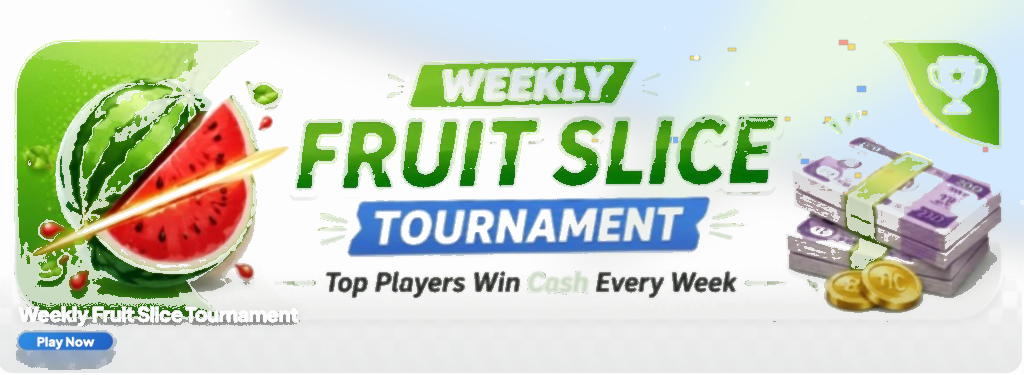
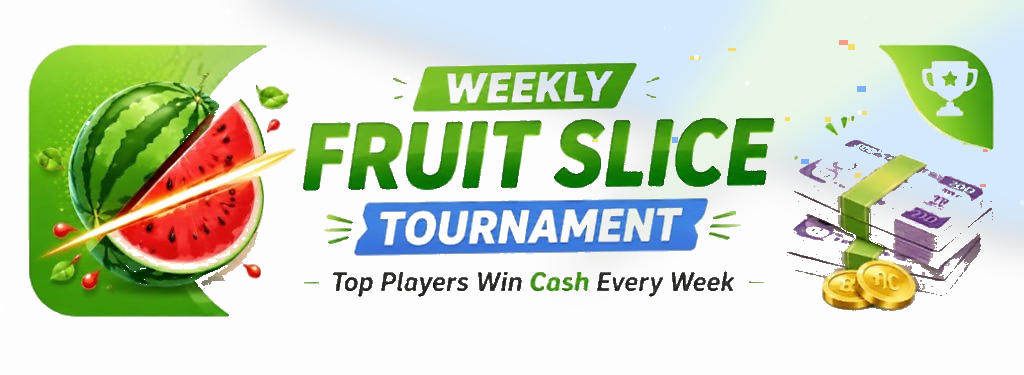
feat: update UI - order and coming soon

diff --git a/src/hub/main.ts b/src/hub/main.ts
@@ -65,10 +65,16 @@ function promosFromConfig(): PromoSlide[] {
 let promoIdx = 0;
 const PROMO_INTERVAL_MS = 4500;
 
+function promoBannerSrcset(img: string): string {
+  if (!img.includes('ad-banner-2.png')) return '';
+  const hi = img.replace('ad-banner-2.png', '[email redacted]');
+  return ` srcset="${escapeHtml(img)} 1x, ${escapeHtml(hi)} 2x"`;
+}
+
 function promoSlideHtml(p: PromoSlide, extraClass = ''): string {
   const bright = p.img.includes('ad-banner-2') ? ' promo-slide--bright' : '';
   const cls = `promo-slide promo-slide-img${bright}${extraClass ? ` ${extraClass}` : ''}`;
-  const img = `<img src="${escapeHtml(p.img)}" alt="" class="promo-banner-img" loading="lazy" decoding="async" />`;
+  const img = `<img src="${escapeHtml(p.img)}"${promoBannerSrcset(p.img)} alt="" class="promo-banner-img" loading="lazy" decoding="async" />`;
   const overlay = p.href
     ? `<div class="promo-slide-overlay">
         <p class="promo-slide-caption">${escapeHtml(p.alt)}</p>